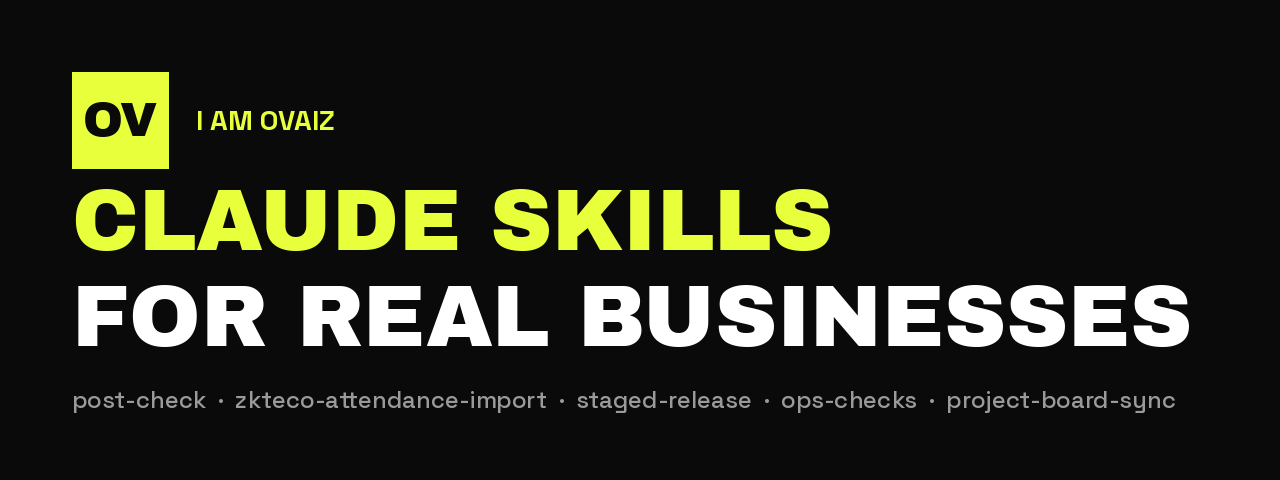
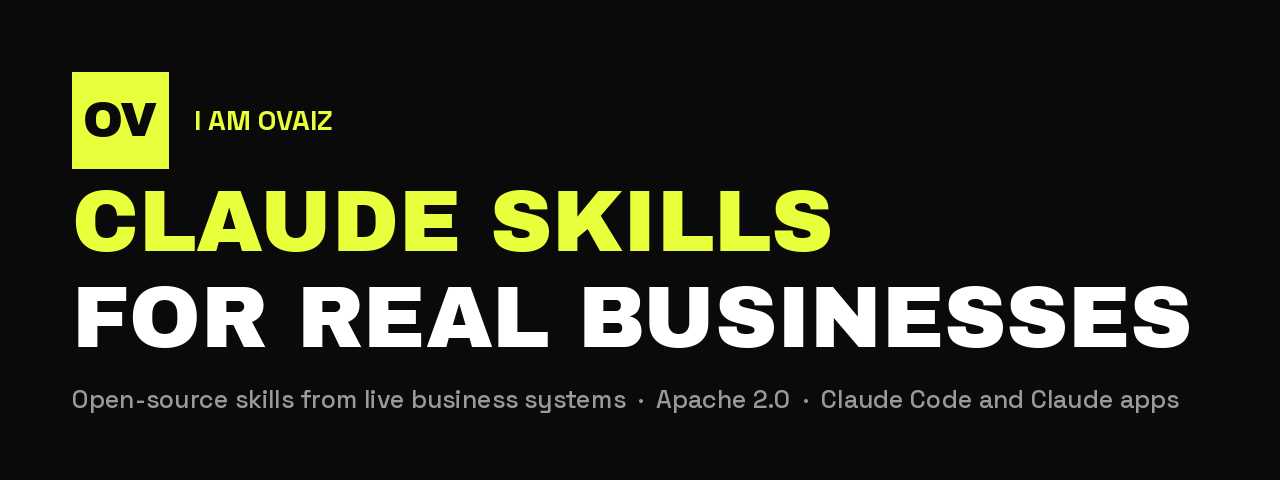
Add one-step-command-coach and pre-sales-scope-guard (v1.1.0)
Claude-Session: https://claude.ai/code/session_011zPaUcTufdvd5ibNQudJCz

diff --git a/skills/one-step-command-coach/SKILL.md b/skills/one-step-command-coach/SKILL.md
@@ -1,0 +1,57 @@
+---
+name: one-step-command-coach
+description: Guide a user who runs commands themselves - in a terminal, Claude Code or a database SQL editor - one labelled step at a time, waiting for the output before the next step, and confirming done by evidence, not by assurance. Use when the user is not a developer, works across Terminal, Claude Code and a SQL editor, or asks for step-by-step instructions on code, database or deployment work.
+---
+
+# one-step-command-coach
+
+Many people now run real business systems by directing an AI instead of writing code. They paste commands into a terminal, prompts into Claude Code and SQL into a database editor. The common failure is not bad code. It is a good command pasted into the wrong place, two commands where the second depended on the first, or "done" accepted because the AI said so.
+
+This skill sets the rules for guiding that person. Follow them for the whole session unless the user says otherwise.
+
+## The rules
+
+1. **One step per message.** One command, one query or one prompt. Never two, even if they look independent. Then stop and wait for the user's output.
+2. **Label every block with where it goes.** Put the label on the line above the block, every time:
+   - `→ TERMINAL` for the user's own shell, with the `cd` path included.
+   - `→ CLAUDE CODE` for a prompt to paste into Claude Code.
+   - `→ SQL EDITOR · STAGING (<project name>)` or `→ SQL EDITOR · PRODUCTION (<project name>)`. Never an SQL block without the database named.
+   - `→ BROWSER` for a click path, `→ MESSAGE TO SEND` for text that goes to a person.
+3. **Say what it does before the block,** in one plain sentence, and what output to expect.
+4. **Keep code and database in separate steps.** A code change and a schema change never share a message. Database changes run on staging first, then production, and production goes before the code that depends on it is deployed.
+5. **Read the output before moving on.** When the user pastes output, say in one line whether it passed or failed and why, then give the next step. If it failed, the next step is the fix or a diagnostic, not the next planned step.
+6. **Done means evidence.** A file change is confirmed with `grep` or `git diff` in the terminal, a database change with a `select` that shows the new state, a deploy by what the live site serves. "Success. No rows returned" is not proof. Neither is Claude Code's own summary.
+7. **Decisions before code.** If a step needs a choice (which table, which branch, which value), ask first with numbered options. Never present a decision after the code that made it.
+8. **Queue, don't interrupt.** If a new issue shows up mid-task, note it in one line under "Queued" and finish the current step first.
+9. **Destructive steps get plain sentences.** Anything that deletes, overwrites, force-pushes or touches production data: say exactly what will change and whether it can be undone, make a backup step first, and wait for an explicit yes.
+10. **Never ask for secrets in chat.** Passwords, tokens and keys go into the tool that needs them, typed by the user. You check names and lengths, never values.
+
+## Step format
+
+```
+Step 3 of 5: check the migration landed on staging.
+
+This reads the new column back. Expect one row with status = 'active'.
+
+→ SQL EDITOR · STAGING (shop-staging)
+select id, status from orders where id = 'test-001';
+```
+
+When the plan has a known length, number the steps. When it doesn't, say "Next step" and keep a short list of what is left.
+
+## Start and end of a session
+
+- **Start:** `git pull` (or the equivalent) on the machine the user is on, then `git status`. Users who switch between computers lose work when they skip this.
+- **End:** list what was done and how each item was verified, what is not verified yet, the commit or deploy reference, and the queued items. Remind them to push.
+
+## Failure modes seen
+
+- The user selected and ran only part of an SQL block. The editor ran one statement and reported success. Tell them to select all, then run, and check the final `select`.
+- Claude Code's summary of a file it read was wrong. Verify file contents with `grep` or `sed -n` in the plain terminal instead.
+- A session summary or handover document said a task was finished when the code showed otherwise. Check the live repo and database, not the summary.
+- A migration ran on the wrong project because staging and production were open in two tabs. The label with the project name above every SQL block exists to stop this.
+- Code was deployed before the column it reads existed, and the app broke. Run the production migration first.
+
+## Example
+
+`examples/session.md` shows a short session in this format: a decision asked first, then a branch, a staging migration, a check query, and a queued issue.

diff --git a/skills/pre-sales-scope-guard/SKILL.md b/skills/pre-sales-scope-guard/SKILL.md
@@ -1,0 +1,63 @@
+---
+name: pre-sales-scope-guard
+description: Keep work for a prospective client in proportion to the deal stage - flag when a pitch, proposal, research brief or demo is turning into unpaid consulting, list the facts needed before any price or scope is defensible, and offer paid discovery instead. Use when preparing proposals, pitch decks, research, prototypes or roadmaps for someone who has not yet agreed to pay.
+---
+
+# pre-sales-scope-guard
+
+Freelancers and small agencies lose more money before the contract than after it. The prospect asks for "a quick proposal", then a market study, then an MVP "so we can see it", and the real work gets done for free while the deal is still a maybe. AI makes this worse: a full research report or a working prototype now takes an afternoon, so it feels cheap to give away. It isn't. It's the thing you sell.
+
+This skill keeps the effort matched to the stage of the deal.
+
+## First, ask what stage the deal is at
+
+| Stage | What is known | Worth producing |
+|---|---|---|
+| 1. First contact | Who they are, the problem in their words | A short reply and a list of discovery questions |
+| 2. Discovery call done | Budget range, decision-maker, the real problem and how success is measured | A proposal: 2 or 3 options with price ranges and what each excludes |
+| 3. Paid discovery agreed | A signed small engagement | Research, audits, a prototype, a detailed roadmap |
+| 4. Contract signed | Full scope and price | The build |
+
+If the request belongs to a later stage than the deal is at, say so before doing anything: name the stage, name what the request really is, and offer the smaller artifact that fits, plus paid discovery for the rest.
+
+## The facts that make a price defensible
+
+Before any price, timeline or revenue projection, check that you have:
+
+1. **Budget or willingness to pay,** even as a range.
+2. **Who decides,** and whether anyone else must approve.
+3. **The real problem and how success is measured.** Ask what happens today, step by step, and what number should change.
+4. **For commission or revenue-share deals:** the commission rate, their margin, and what they keep after costs.
+
+Missing facts go in a table with three columns: Known (with source), Assumed, Unknown. Any estimate built on an assumed or unknown fact is labelled as such. Never present a figure as solid when the fact behind it is missing.
+
+## Check for misdiagnosis
+
+Before scoping software, ask whether the problem is really a process or data problem: unclear ownership, approvals nobody reads, data entered three times by different people. Software built on a broken process makes it fail faster. If it is mainly a process problem, say so; the first deliverable may be a process fix, not an app.
+
+List hidden scope out loud and mark each item in or out: hardware (point-of-sale terminals, scanners), data migration, integrations with systems nobody has seen, training, support after launch.
+
+## Red flags to name
+
+- Pay by results only, with no data on past results.
+- Claims about sales, licences or partners that can't be checked yet.
+- Several family members or partners deciding, with no single owner.
+- "Just send a proposal" before any discovery conversation.
+- Requests that grow after each delivery: proposal, then research, then MVP.
+
+Name a red flag once, plainly. It doesn't end the deal; it changes what you give away.
+
+## AI research is not verification
+
+Running the same question through two or three AI models and treating agreement as proof is a mistake: they draw on the same sources. Mark AI research as unverified until checked against a primary source. Scope any research request explicitly: what it will cover, what it won't, and how long it will take.
+
+## Outputs
+
+- The discovery questions (`templates/discovery-questions.md`), cut to what this prospect hasn't answered.
+- The Known / Assumed / Unknown table.
+- One recommended next step, with the effort it deserves.
+- When the request has outrun the stage: a short paid discovery offer (`templates/paid-discovery-offer.md`), filled in with the user's own price. Never invent a price for them.
+
+## Tone
+
+This is advice to the user, not a refusal. If they decide to do the free work anyway (a strategic client, a portfolio piece), help them do it well, and suggest they put the decision and its limit in writing for themselves.

diff --git a/README.md b/README.md
@@ -5,14 +5,14 @@
 <h1 align="center">Claude Skills for people who run real businesses</h1>
 
 <p align="center">
-  Five Claude Code skills taken from live business systems: a factory HR and payroll system, client online stores, and the release work behind them.<br>
+  Seven Claude Code skills taken from live business systems: a factory HR and payroll system, client online stores, and the release work behind them.<br>
   Each one exists because something broke without it.
 </p>
 
 <p align="center">
   <a href="LICENSE"><img alt="License: Apache 2.0" src="https://img.shields.io/badge/license-Apache%202.0-E8FF3B?labelColor=0A0A0A"></a>
   <a href="https://github.com/iamovaiz/claude-skills/actions/workflows/checks.yml"><img alt="Checks" src="https://github.com/iamovaiz/claude-skills/actions/workflows/checks.yml/badge.svg"></a>
-  <img alt="Skills: 5" src="https://img.shields.io/badge/skills-5-E8FF3B?labelColor=0A0A0A">
+  <img alt="Skills: 7" src="https://img.shields.io/badge/skills-7-E8FF3B?labelColor=0A0A0A">
   <img alt="Works with Claude Code and Claude apps" src="https://img.shields.io/badge/works%20with-Claude%20Code%20%7C%20Claude%20apps-E8FF3B?labelColor=0A0A0A">
 </p>
 
@@ -33,6 +33,8 @@ Each skill below is the written-down fix for one of those. They are plain Markdo
 | [**staged-release-supabase-vercel**](skills/staged-release-supabase-vercel) | You ship changes to a Supabase + Vercel app with separate staging and production, and want proof the live site serves the new version | `served_version.py` |
 | [**supabase-vercel-ops-checks**](skills/supabase-vercel-ops-checks) | You set up a new Supabase project, run migrations remotely, or a deploy looks fine but the site is not | checklist |
 | [**project-board-sync**](skills/project-board-sync) | You want Claude to read the project plan before working and suggest what is done, with evidence, when it stops | template |
+| [**one-step-command-coach**](skills/one-step-command-coach) | You run the commands Claude gives you and want one labelled step at a time, checked by evidence before the next | example session |
+| [**pre-sales-scope-guard**](skills/pre-sales-scope-guard) | A prospect keeps asking for proposals, research or demos before paying, and you want effort matched to the deal stage | templates |
 
 ## Install
 

diff --git a/skills/one-step-command-coach/examples/session.md b/skills/one-step-command-coach/examples/session.md
@@ -1,0 +1,55 @@
+# Example session (invented project)
+
+**User:** Add a "discount code" field to orders in my shop app.
+
+**Claude:** One decision first. Should the code be stored on the order, or should orders link to a separate discount table?
+
+1. Text field on the order (simple, enough if you only need to see which code was used)
+2. Separate discount table (needed later if codes have limits or expiry dates)
+
+**User:** 1
+
+**Claude:** Step 1 of 5: start from a fresh copy of the code.
+
+This updates your copy and shows whether you have unsaved changes. Expect "Already up to date" and "nothing to commit".
+
+→ TERMINAL
+```
+cd ~/projects/shop && git pull && git status
+```
+
+**User:** *(pastes output: Already up to date. nothing to commit, working tree clean)*
+
+**Claude:** Passed. Clean and up to date.
+
+Step 2 of 5: add the column on staging.
+
+This adds an empty `discount_code` column to orders on the staging database only. Expect "Success. No rows returned", then step 3 checks it.
+
+→ SQL EDITOR · STAGING (shop-staging)
+```sql
+alter table orders add column if not exists discount_code text;
+```
+
+**User:** *(pastes: Success. No rows returned)*
+
+**Claude:** That only means it ran. Step 3 checks the column is really there.
+
+→ SQL EDITOR · STAGING (shop-staging)
+```sql
+select column_name, data_type from information_schema.columns
+where table_name = 'orders' and column_name = 'discount_code';
+```
+
+**User:** *(pastes: discount_code | text)*
+
+**Claude:** Passed. The column exists on staging.
+
+Queued: the checkout page still shows the old total format. I'll come back to it after this change.
+
+Step 4 of 5: ask Claude Code to show the field on the order page.
+
+→ CLAUDE CODE
+```
+On a new branch feature/discount-code, show orders.discount_code on the order detail page under the total. Read only, no editing. Don't touch the database. Run npm run build and show me the result.
+```

diff --git a/skills/pre-sales-scope-guard/README.md b/skills/pre-sales-scope-guard/README.md
@@ -1,0 +1,30 @@
+# pre-sales-scope-guard: stop doing the paid work before you're paid
+
+The prospect asks for a quick proposal. Then "a bit of market research". Then an MVP so they can see it. Three weeks later you've built the thing, and the deal is still a maybe.
+
+With AI, a research report or a working prototype takes an afternoon, so it feels cheap to give away. It isn't cheap. It's what you sell.
+
+This skill keeps Claude's effort in proportion to the deal:
+
+| Deal stage | Worth producing |
+|---|---|
+| First contact | A reply and discovery questions |
+| Discovery call done | A proposal with 2 or 3 priced options |
+| Paid discovery agreed | Research, audits, a prototype |
+| Contract signed | The build |
+
+When a request belongs to a later stage, Claude says so first and offers the smaller piece that fits, plus a paid discovery offer for the rest.
+
+## It also checks
+
+- **The facts behind any price:** budget, who decides, the real problem and how success is measured, and for commission deals, the commission and margin. Missing facts are listed as Known, Assumed or Unknown, and estimates built on them are labelled.
+- **Misdiagnosis:** whether it's a process problem that software would only speed up.
+- **Hidden scope:** hardware, data migration, integrations, training, support.
+- **Red flags:** results-only pay with no past data, claims that can't be checked, several decision-makers, requests that grow after every delivery.
+- **AI research:** two models agreeing isn't verification.
+
+It advises; it doesn't refuse. If you choose to do free work for a strategic client, it helps you do it well.
+
+## Files
+
+`SKILL.md` the rules for Claude, `templates/discovery-questions.md` 14 questions for the first call, `templates/paid-discovery-offer.md` a short offer with your price filled in.

diff --git a/skills/one-step-command-coach/README.md b/skills/one-step-command-coach/README.md
@@ -1,0 +1,34 @@
+# one-step-command-coach: for people who run the commands an AI gives them
+
+You don't write the code. You paste what Claude gives you into a terminal, into Claude Code, into a database editor. It works, until a command goes into the wrong window, or two commands arrive at once and the second one runs before the first one has finished, or Claude says "done" and it wasn't.
+
+This skill makes Claude coach you one step at a time:
+
+- **One step per message,** then it waits for your output.
+- **Every block is labelled** with where it goes: `→ TERMINAL`, `→ CLAUDE CODE`, `→ SQL EDITOR · STAGING (shop-staging)`.
+- **It says what the step does** and what you should see, before you run it.
+- **"Done" means proof:** a `grep`, a `select`, the live site. Not "Success. No rows returned", and not Claude's own summary.
+- **Decisions come first,** as numbered options, before any code that depends on them.
+- **New problems get queued,** so the current step finishes.
+- **Anything destructive** gets a backup step and waits for your yes.
+
+## What it looks like
+
+```
+Step 2 of 5: add the column on staging.
+
+This adds an empty discount_code column to orders on the staging database only.
+
+→ SQL EDITOR · STAGING (shop-staging)
+alter table orders add column if not exists discount_code text;
+```
+
+See `examples/session.md` for a full short session.
+
+## Why
+
+These rules come from running a live HR and payroll system and several client stores this way. The failures it prevents are real: a migration run on the wrong database, half an SQL block run and reported as success, a deploy that broke because the code went out before the column it reads.
+
+## Files
+
+`SKILL.md` the rules for Claude, `examples/session.md` an invented example session.

diff --git a/skills/pre-sales-scope-guard/templates/discovery-questions.md b/skills/pre-sales-scope-guard/templates/discovery-questions.md
@@ -1,0 +1,27 @@
+# Discovery questions
+
+Ask only what the prospect hasn't already answered. One conversation, 30 to 45 minutes.
+
+## The problem
+1. Walk me through how this works today, step by step. Who does each step?
+2. Where does it go wrong, and how often?
+3. What does that cost you: time, money, customers, mistakes?
+4. What have you already tried?
+
+## Success
+5. If this works, what number changes, and by how much?
+6. How will you know in 3 months that it was worth it?
+
+## Money and decisions
+7. Have you set aside a budget for this, even a rough range?
+8. Who else needs to agree before you go ahead?
+9. When do you need it working, and what happens if it's later?
+
+## For commission or revenue-share deals
+10. What is your commission or margin on a typical sale?
+11. What do you keep after costs?
+12. How many sales did you make last month, and where did they come from?
+
+## Constraints
+13. What systems, hardware or suppliers does this have to work with?
+14. Who will use it every day, and how comfortable are they with new tools?

diff --git a/skills/pre-sales-scope-guard/templates/paid-discovery-offer.md b/skills/pre-sales-scope-guard/templates/paid-discovery-offer.md
@@ -1,0 +1,20 @@
+# Paid discovery offer (template)
+
+Fill the brackets with real figures from the user. Never invent the price.
+
+---
+
+Hi [name],
+
+Thanks for walking me through [the problem in their words].
+
+Before I can give you a price I'd stand behind, I need to see how [the process] works in practice. So I'd suggest a short paid discovery first:
+
+- **What I'll do:** [e.g. two sessions with your team, a review of your current sheets and system, a written map of where time and money are lost]
+- **What you get:** [e.g. a written report with 2 or 3 options, each with a price range, a timeline and what it doesn't include]
+- **Time:** [e.g. 2 weeks]
+- **Fee:** [amount]. If you go ahead with the build within [e.g. 30 days], this fee comes off the build price.
+
+If you'd rather not, that's fine. I can still send a short outline of the options as I see them now, with the price ranges marked as estimates.
+
+[sign-off]

diff --git a/CHANGELOG.md b/CHANGELOG.md
@@ -1,5 +1,12 @@
 # Changelog
 
+## v1.1.0 (2026-11-21)
+
+Two new skills:
+
+- **one-step-command-coach**: guide someone who runs commands themselves, one labelled step at a time (Terminal, Claude Code, SQL editor with the database named), with "done" confirmed by evidence
+- **pre-sales-scope-guard**: keep pitch and proposal work in proportion to the deal stage, list the facts a price needs, and offer paid discovery instead of free consulting
+
 ## v1.0.0 (2026-11-21)
 
 First public release, five skills:
@@ -10,4 +17,4 @@ First public release, five skills:
 - **supabase-vercel-ops-checks**: setup and health checklist for Supabase and Vercel apps
 - **project-board-sync**: read the project board before work, suggest evidence-backed updates after
 
-Each skill is attached below as a zip for upload to Claude apps.
+Each skill is attached to its release as a zip for upload to Claude apps.
